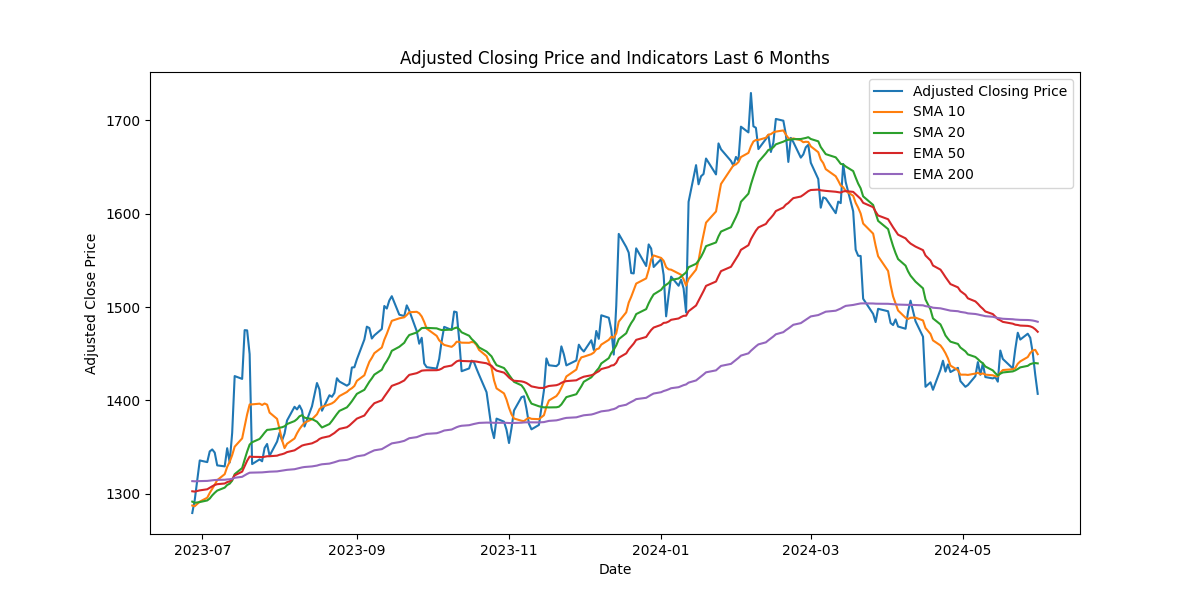
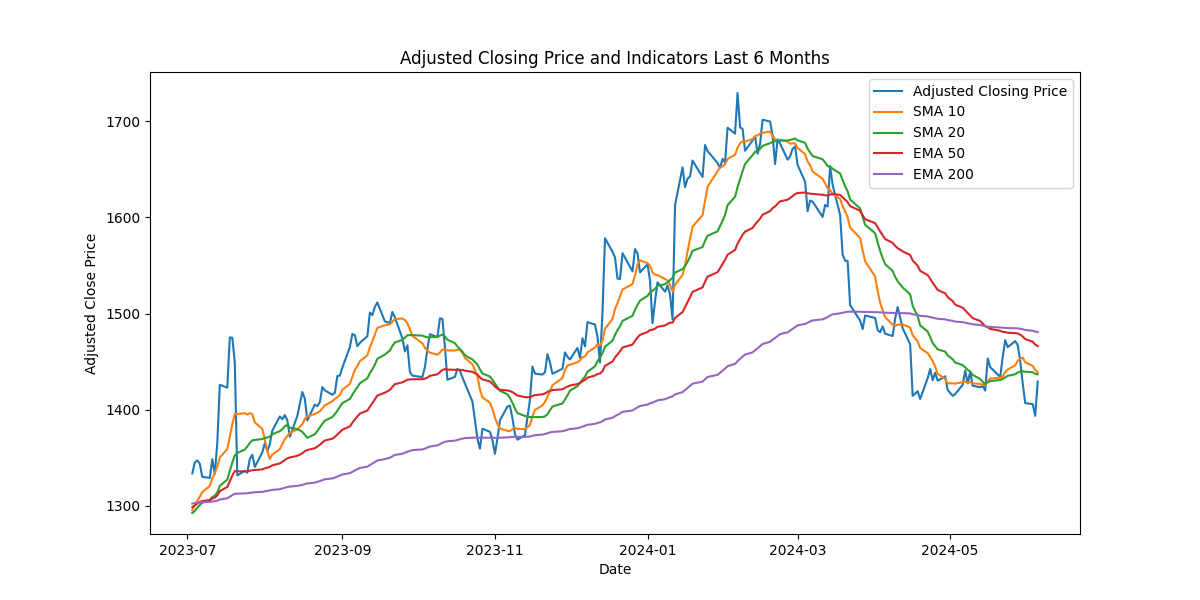
Changed stokc ONGC to Tech mahindra, Fixed curcial bug, now model is performing optimally

diff --git a/templates/index.html b/templates/index.html
@@ -124,8 +124,8 @@
     {% if selected_stock %}
     <script>
         let selectedStock = "{{ selected_stock }}";
-        const stockList = ["TCS", "Tata_Motors", "Infosys", "Asian_Paints", "ONGC"]
-        const ticker = ['TCS.NS', 'TATAMOTORS.NS', 'INFY.NS', 'ASIANPAINT.NS', 'ONGC.NS']
+        const stockList = ["TCS", "Tata_Motors", "Infosys", "Asian_Paints", "Tech_Mahindra_Ltd"]
+        const ticker = ['TCS.NS', 'TATAMOTORS.NS', 'INFY.NS', 'ASIANPAINT.NS', 'TECHM.NS']
         const stockMap = Object.fromEntries(
             stockList.map((stock, index) => [stock, ticker[index]])
         );

diff --git a/stock_analysis1.5.py b/stock_analysis1.5.py
@@ -2,11 +2,10 @@ import yfinance as yf
 import pandas as pd
 import numpy as np
 import matplotlib.pyplot as plt
-import os
 from ta import add_all_ta_features
 from sklearn.preprocessing import MinMaxScaler
 from tensorflow.keras.models import Model
-from tensorflow.keras.layers import Dense, LSTM, Dropout, Bidirectional, GRU, Conv1D, MaxPooling1D, Flatten, concatenate, Input
+from tensorflow.keras.layers import Dense, LSTM, Dropout, Input
 from tensorflow.keras.callbacks import EarlyStopping
 from tensorflow.keras.regularizers import l2
 from sklearn.metrics import mean_absolute_error, mean_squared_error, r2_score
@@ -62,36 +61,17 @@ def create_dataset(dataset, time_step=1):
     dataX, dataY = [], []
     for i in range(len(dataset) - time_step - 1):
         dataX.append(dataset[i:(i + time_step), :])
-        dataY.append(dataset[i + time_step, 0])
+        dataY.append(dataset[i + time_step, 0])  # Target is the 'Close' price
     return np.array(dataX), np.array(dataY)
 
 def build_model(input_shape):
-    lstm_input = Input(shape=input_shape)
-    lstm = Bidirectional(LSTM(100, return_sequences=True))(lstm_input)
+    model_input = Input(shape=input_shape)
+    lstm = LSTM(100, return_sequences=False)(model_input)
     lstm = Dropout(0.3)(lstm)
-    lstm = Bidirectional(LSTM(100, return_sequences=False))(lstm)
-    lstm = Dropout(0.3)(lstm)
-    lstm_output = Dense(50, activation='relu', kernel_regularizer=l2(0.01))(lstm)
-    
-    gru_input = Input(shape=input_shape)
-    gru = Bidirectional(GRU(100, return_sequences=True))(gru_input)
-    gru = Dropout(0.3)(gru)
-    gru = Bidirectional(GRU(100, return_sequences=False))(gru)
-    gru = Dropout(0.3)(gru)
-    gru_output = Dense(50, activation='relu', kernel_regularizer=l2(0.01))(gru)
-
-    cnn_input = Input(shape=input_shape)
-    cnn = Conv1D(filters=64, kernel_size=2, activation='relu')(cnn_input)
-    cnn = MaxPooling1D(pool_size=2)(cnn)
-    cnn = Flatten()(cnn)
-    cnn_output = Dense(50, activation='relu', kernel_regularizer=l2(0.01))(cnn)
-
-    combined = concatenate([lstm_output, gru_output, cnn_output])
-    combined_output = Dense(1)(combined)
-
-    model = Model(inputs=[lstm_input, gru_input, cnn_input], outputs=combined_output)
+    dense = Dense(50, activation='relu', kernel_regularizer=l2(0.01))(lstm)
+    output = Dense(1)(dense)
+    model = Model(inputs=model_input, outputs=output)
     model.compile(optimizer='adam', loss='mean_squared_error')
-
     return model
 
 def plot_predictions(combined_df, y_train_inverse, train_predict_inverse, y_test_inverse, test_predict_inverse, filename):
@@ -120,17 +100,17 @@ def plot_future_predictions(combined_df, future_dates, predictions, filename):
     plt.close()
 
 def evaluate_model(model, X_train, y_train, X_test, y_test, scaler, combined_df, time_step, output_folder, ticker):
-    train_predict = model.predict([X_train, X_train, X_train]).reshape(-1, 1)
-    test_predict = model.predict([X_test, X_test, X_test]).reshape(-1, 1)
+    train_predict = model.predict(X_train).reshape(-1, 1)
+    test_predict = model.predict(X_test).reshape(-1, 1)
 
-    def inverse_transform(pred, original):
-        full_pred = np.concatenate((pred, np.zeros((pred.shape[0], X_train.shape[2] - 1))), axis=1)
+    def inverse_transform(pred, original_shape):
+        full_pred = np.concatenate((pred, np.zeros((pred.shape[0], original_shape - 1))), axis=1)
         return scaler.inverse_transform(full_pred)[:, 0]
 
-    train_predict_inverse = inverse_transform(train_predict, X_train)
-    test_predict_inverse = inverse_transform(test_predict, X_test)
-    y_train_inverse = inverse_transform(y_train.reshape(-1, 1), X_train)
-    y_test_inverse = inverse_transform(y_test.reshape(-1, 1), X_test)
+    train_predict_inverse = inverse_transform(train_predict, X_train.shape[2])
+    test_predict_inverse = inverse_transform(test_predict, X_test.shape[2])
+    y_train_inverse = inverse_transform(y_train.reshape(-1, 1), X_train.shape[2])
+    y_test_inverse = inverse_transform(y_test.reshape(-1, 1), X_test.shape[2])
 
     plot_predictions(combined_df, y_train_inverse, train_predict_inverse, y_test_inverse, test_predict_inverse, f"{output_folder}/{ticker}_stock_prediction_training_vs_testing.png")
 
@@ -155,7 +135,7 @@ def predict_future(model, last_days, time_step, num_features, scaler):
     current_input = last_days.reshape(1, time_step, num_features)
 
     for _ in range(30):
-        next_prediction = model.predict([current_input, current_input, current_input])[0, 0]
+        next_prediction = model.predict(current_input)[0, 0]
         predictions.append(next_prediction)
         next_prediction_tiled = np.tile(next_prediction, (1, 1, num_features))
         current_input = np.concatenate((current_input[:, 1:, :], next_prediction_tiled), axis=1)
@@ -164,7 +144,7 @@ def predict_future(model, last_days, time_step, num_features, scaler):
     predictions_full = np.concatenate([predictions, np.zeros((predictions.shape[0], num_features - 1))], axis=1)
     return scaler.inverse_transform(predictions_full)[:, 0]
 
-def main(stock_idx = 0, epochs_count = 150):
+def main(stock_idx=0, epochs_count=100):
     stock_list = ["TCS", "Tata_Motors", "Infosys", "Asian_Paints", "Tech_Mahindra_Ltd"]
     ticker = ['TCS.NS', 'TATAMOTORS.NS', 'INFY.NS', 'ASIANPAINT.NS', 'TECHM.NS']
     stock_ticker = ticker[stock_idx]
@@ -176,67 +156,41 @@ def main(stock_idx = 0, epochs_count = 150):
     sentiment_data = load_sentiment_data(rf'./Dataset/{stock_list[stock_idx]}_sentiment_data.csv')
     combined_df = combine_data(stock_data, sentiment_data)
 
-    corr = combined_df.corr()["Close"].abs().sort_values(ascending=False)
-    N = 19  # Number of features to select
-    top_n_features = corr.head(N).index.tolist()
-    top_n_features.insert(1, 'Label')
-    features = combined_df[top_n_features]
+    # Ensure 'Close' is the first column
+    combined_df = combined_df[['Close'] + [col for col in combined_df.columns if col != 'Close']]
 
-    # Ensure 'Close' is the first feature in the dataset
-    features = features[['Close'] + [col for col in features.columns if col != 'Close']]
+    features = combined_df.drop(columns=['Close'])
+    target = combined_df[['Close']]
 
-    scaled_features, scaler = scale_features(features)
-    time_step = 60
-    X, y = create_dataset(scaled_features, time_step)
+    print("Features: ", features)
+
+    scaled_features, features_scaler = scale_features(features)
+    scaled_target, target_scaler = scale_features(target)
+
+    time_step = 30
+    X, y = create_dataset(np.hstack((scaled_target, scaled_features)), time_step)
 
     train_size = int(len(X) * 0.8)
     X_train, X_test = X[:train_size], X[train_size:]
     y_train, y_test = y[:train_size], y[train_size:]
 
-    input_shape = (time_step, X.shape[2])
-    model = build_model(input_shape)
+    model = build_model((time_step, X.shape[2]))
     early_stop = EarlyStopping(monitor='val_loss', patience=15, restore_best_weights=True)
-    model.fit([X_train, X_train, X_train], y_train, validation_data=([X_test, X_test, X_test], y_test), epochs=epochs_count, batch_size=64, callbacks=[early_stop])
+    model.fit(X_train, y_train, validation_data=(X_test, y_test), epochs=epochs_count, batch_size=64, callbacks=[early_stop])
 
-    train_predict_inverse, test_predict_inverse, y_train_inverse, y_test_inverse = evaluate_model(model, X_train, y_train, X_test, y_test, scaler, combined_df, time_step, './images', stock_list[stock_idx])
-
-    metrics = calculate_metrics(y_train_inverse, train_predict_inverse, y_test_inverse, test_predict_inverse)
-    for dataset, metric in metrics.items():
-        print(f"{dataset.capitalize()} Metrics:")
-        for metric_name, value in metric.items():
-            print(f"{metric_name}: {value}")
-        print()
-
-    last_days = scaled_features[-time_step:]
-    predictions = predict_future(model, last_days, time_step, X.shape[2], scaler)
-    prediction_price_mean = round(predictions.mean(), 2)
+    train_predict_inverse, test_predict_inverse, y_train_inverse, y_test_inverse = evaluate_model(model, X_train, y_train, X_test, y_test, target_scaler, combined_df, time_step, './images', stock_list[stock_idx])
     
-    print(predictions)
-    print("Prediction is: ", prediction_price_mean)
-    # save the prediction_mean along with the stock name in csv
-    file_path = './predictions/stock_price_prediction.csv'
-    if os.path.exists(file_path):
-        predictions_df = pd.read_csv(file_path, index_col=0)
-        
-        if stock_list[stock_idx] in predictions_df['Stock'].values:
-            predictions_df.loc[predictions_df['Stock'] == stock_list[stock_idx], 'Prediction'] = prediction_price_mean
-        else:
-            new_row = pd.DataFrame({'Stock': [stock_list[stock_idx]], 'Prediction': [prediction_price_mean]})
-            predictions_df = pd.concat([predictions_df, new_row], ignore_index=True)
-    else:
-        predictions_df = pd.DataFrame({'Stock': [stock_list[stock_idx]], 'Prediction': [prediction_price_mean]})
+    metrics = calculate_metrics(y_train_inverse, train_predict_inverse, y_test_inverse, test_predict_inverse)
+    print(f"Metrics: {metrics}")
 
-    predictions_df.to_csv(file_path)
+    last_days = X_test[-1]
+    future_predictions = predict_future(model, last_days, time_step, X.shape[2], target_scaler)
+    print(future_predictions)
+    print(future_predictions.mean())
 
-    future_dates = pd.date_range(start=combined_df.index[-1] + pd.Timedelta(days=1), periods=30)
-    plot_future_predictions(combined_df, future_dates, predictions, f'./static/images/{stock_list[stock_idx]}_stock_price_prediction_next_month.png')
+
+    future_dates = pd.date_range(start=combined_df.index[-1], periods=30, freq='B')
+    plot_future_predictions(combined_df, future_dates, future_predictions, f"./static/images/{stock_list[stock_idx]}_stock_price_prediction_next_month.png")
 
 if __name__ == "__main__":
-    stock_list = ["TCS", "Tata_Motors", "Infosys", "Asian_Paints", "Tech_Mahindra_Ltd"]
-    for idx in range(len(stock_list)):
-        main(idx)
-    # main(0)
-    # main(1, 25)
-    # main(2, 100)
-    # main(3)
-    # main(4, 100)
+    main(stock_idx=0, epochs_count=100)

diff --git a/sentiment.py b/sentiment.py
@@ -31,7 +31,7 @@ def get_random_date():
     return start_date + datetime.timedelta(days=random_days)
 
 def fetch_yahoo_finance_news(stock_idx):
-    stock_name_yfinance = ["TCS.NS/news", "TATAMOTORS.NS/news", "INFY/latest-news", "ASIANPAINT.NS/news", "ONGC.NS/news"]
+    stock_name_yfinance = ["TCS.NS/news", "TATAMOTORS.NS/news", "INFY/latest-news", "ASIANPAINT.NS/news", "TECHM.NS/news/"]
     url = f"https://finance.yahoo.com/quote/{stock_name_yfinance[stock_idx]}"
     headers = {'User-Agent': 'Mozilla/5.0'}
     
@@ -71,7 +71,7 @@ def fetch_newsapi_news(stock_idx):
     end_date = datetime.datetime.now().date()
     start_date = end_date - datetime.timedelta(days=30)
     
-    stocks_name_news_api = ["Tata Consultancy Services", "Tata Motors", "Infosys", "Asian Paints", "ONGC"]
+    stocks_name_news_api = ["Tata Consultancy Services", "Tata Motors", "Infosys", "Asian Paints", "Tech Mahindra Ltd"]
     all_articles = newsapi.get_everything(q=stocks_name_news_api[stock_idx],
                                           from_param=start_date.strftime('%Y-%m-%d'),
                                           to=end_date.strftime('%Y-%m-%d'),
@@ -95,7 +95,7 @@ def fetch_newsapi_news(stock_idx):
     return df
 
 def fetch_moneycontrol_news(stock_idx):
-    stocks_name_moneycontrol = ["TCS", "TEL", "IT", "API", "ONG"]
+    stocks_name_moneycontrol = ["TCS", "TEL", "IT", "API", "TM4"]
     url = f"https://www.moneycontrol.com/stocks/company_info/stock_news.php?sc_id={stocks_name_moneycontrol[stock_idx]}"
     headers = {'User-Agent': 'Mozilla/5.0'}
 
@@ -135,7 +135,7 @@ def fetch_moneycontrol_news(stock_idx):
     return df
 
 def fetch_google_news(stock_idx):
-    stock_name_gnews = ["TCS", "Tata Motors", "Infosys", "Asian Paints", "ONGC"]
+    stock_name_gnews = ["TCS", "Tata Motors", "Infosys", "Asian Paints", "Tech Mahindra Ltd"]
     googlenews = GoogleNews()
     googlenews.search(stock_name_gnews[stock_idx])
     result = googlenews.result()
@@ -207,7 +207,7 @@ def plot_sentiment_pie_chart(df, stock_ticker):
     plt.savefig(os.path.join(output_dir, f'{stock_ticker}_sentiment_graph.png'))
 
 def main(stock_idx=0):
-    stock_list = ["TCS", "Tata_Motors", "Infosys", "Asian_Paints", "ONGC"]
+    stock_list = ["TCS", "Tata_Motors", "Infosys", "Asian_Paints", "Tech_Mahindra_Ltd"]
     logging.info(f"Fetching news for {stock_list[stock_idx]}")
     df_yfinance = fetch_yahoo_finance_news(stock_idx)
     df_news_api = fetch_newsapi_news(stock_idx)
@@ -244,7 +244,8 @@ def main(stock_idx=0):
     logging.info(df_grouped.shape)
 
 if __name__ == "__main__":
-
-    stock_list = ["TCS", "Tata_Motors", "Infosys", "Asian_Paints", "ONGC"]
-    for idx in range(len(stock_list)):
-        main(idx)
+    # stock_list = ["TCS", "Tata_Motors", "Infosys", "Asian_Paints", "Tech_Mahindra_Ltd"]
+    # for idx in range(len(stock_list)):
+    #     main(idx)
+    main(0)
+    main(1)

diff --git a/app.py b/app.py
@@ -36,8 +36,8 @@ def get_fundamental_analysis(stock_info):
 
 @app.route('/', methods=['GET', 'POST'])
 def index():
-    stock_list = ["TCS", "Tata_Motors", "Infosys", "Asian_Paints", "ONGC"]
-    ticker_list = ['TCS.NS', 'TATAMOTORS.NS', 'INFY.NS', 'ASIANPAINT.NS', 'ONGC.NS']
+    stock_list = ["TCS", "Tata_Motors", "Infosys", "Asian_Paints", "Tech_Mahindra_Ltd"]
+    ticker_list = ['TCS.NS', 'TATAMOTORS.NS', 'INFY.NS', 'ASIANPAINT.NS', 'TECHM.NS']
     stock_dict = dict(zip(stock_list, ticker_list))
 
     selected_stock = None
